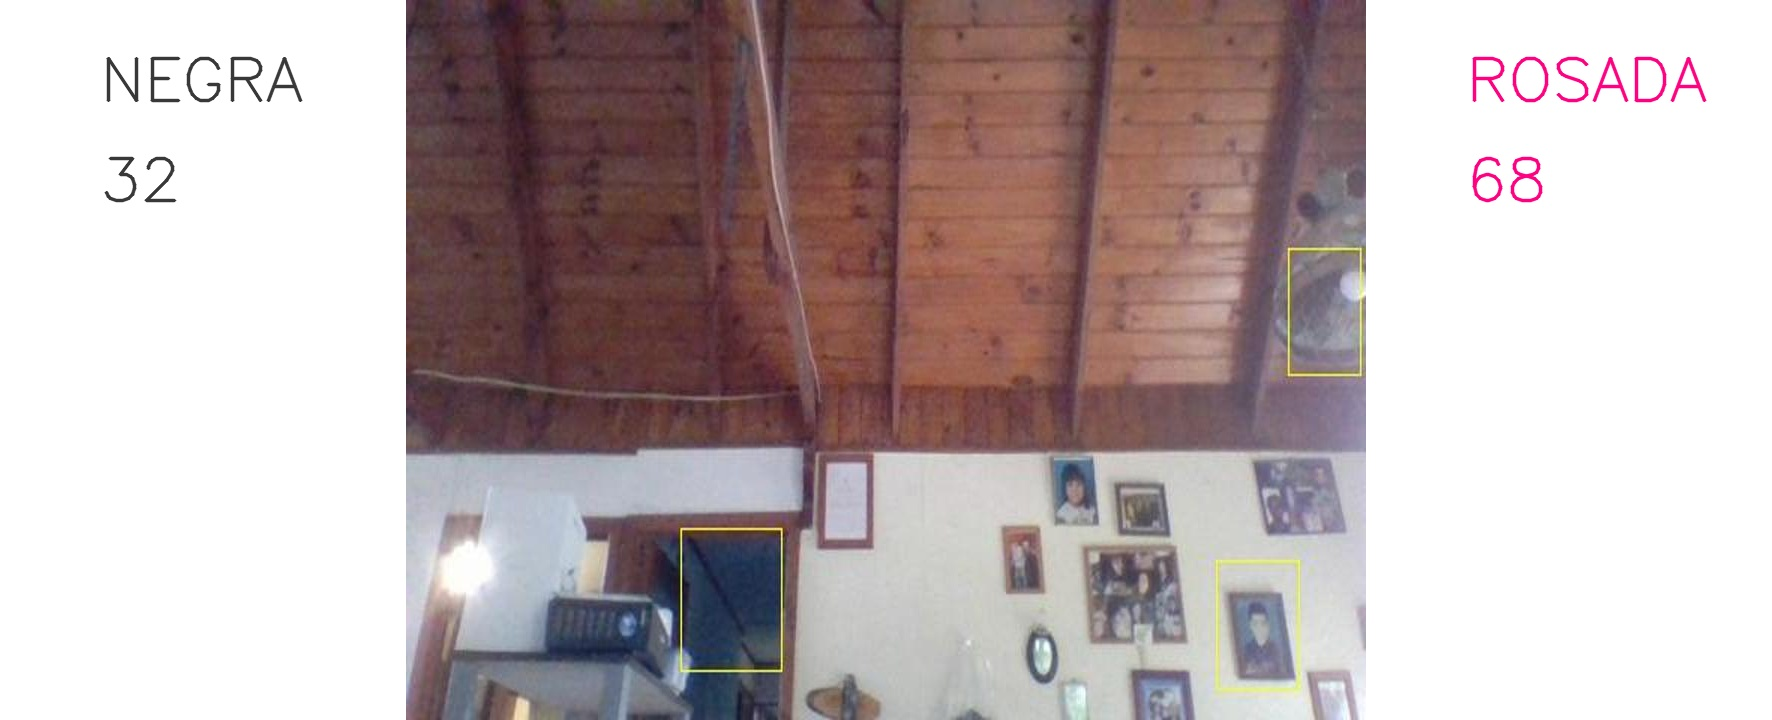
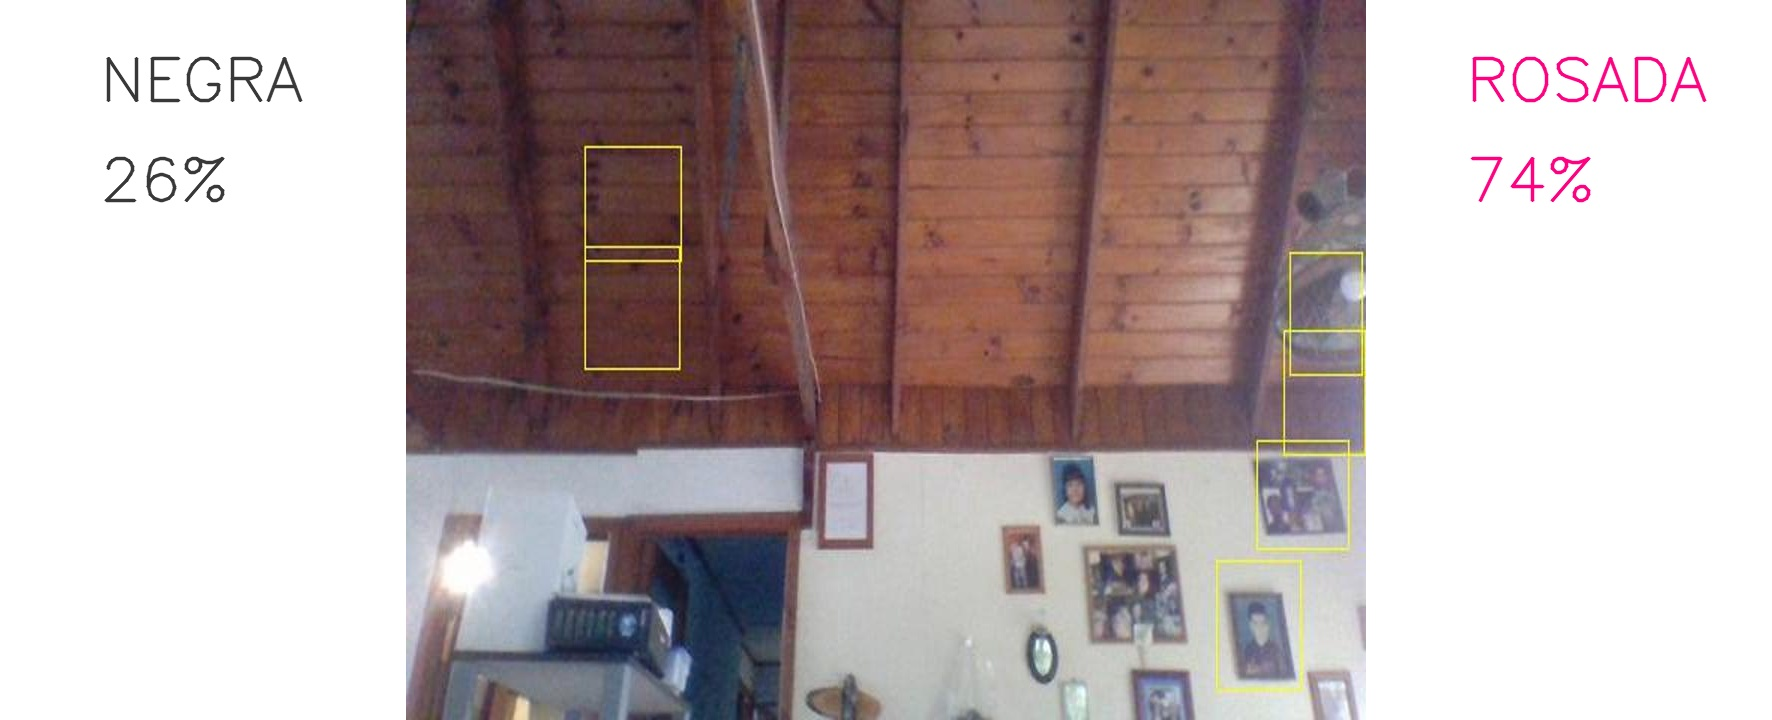
Actualización interfaz

diff --git a/DetectorCV.py b/DetectorCV.py
@@ -50,13 +50,13 @@ def main():
 
     # Print and draw detected objects.
     for obj in objs:
-      print('-----------------------------------------')
+      #print('-----------------------------------------')
       if labels:
         if(labels[obj.label_id] == "negra"):
             negra=negra+1
         if(labels[obj.label_id] == "rosada"):
             rosada=rosada+1
-      print('score =', obj.score)
+      #print('score =', obj.score)
       box = obj.bounding_box.flatten().tolist()
       #print('box =', box)
       draw.rectangle(box, outline='yellow')
@@ -110,7 +110,7 @@ def main():
       org = (100, 200) 
 
          # Using cv2.putText() method 
-      cv2.putText(im2, str(final_negra), org, font,  
+      cv2.putText(im2, str(final_negra)+"%", org, font,  
                         fontScale, color, thickness, cv2.LINE_AA) 
       org = (100, 100) 
         
@@ -118,7 +118,7 @@ def main():
                         fontScale, color2, thickness, cv2.LINE_AA) 
       org = (100, 200) 
 
-      cv2.putText(im3, str(final_rosada), org, font,  
+      cv2.putText(im3, str(final_rosada)+"%", org, font,  
                         fontScale, color2, thickness, cv2.LINE_AA) 
                  
   
